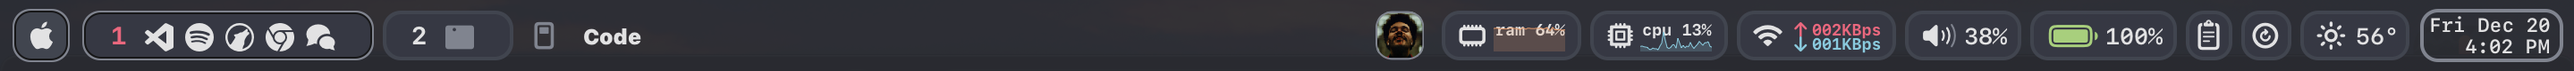
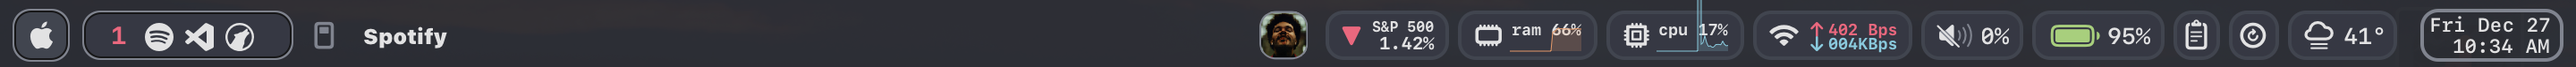
Configuration option to hide widgets

diff --git a/README.md b/README.md
@@ -69,10 +69,10 @@ The default configuration values are defined in full [here](settings.lua). You m
 | `clipboard.max_items` | `integer` | `5` | Number of items to save in the Clipboard Widget. |
 | `font` | `object` | [helpers/default_font.lua](helpers/default_font.lua) | Font configuration. |
 | `group_paddings` | `integer` | `5` | Padding used to separate groups in the bar. |
+| `hide_widgets` | `array` | `[]` | List of widget names that you want hidden from the bar. |
 | `icons` | `string` | `sf-symbols` | Icon library to use; other option is `NerdFont`. |
 | `paddings` | `integer` | `3` | Padding used throughout the bar. |
 | `python_command` | `string` | `python` | Command to use to run Python. The shell environment that SketchyBar uses to execute commands is a bit minimal, so you may need to specify an absolute path to your Python version of choice. |
-| `restart.hide` | `boolean` | `false` | Whether to hide the Restart Widget. |
 | `stocks.default_symbol` | `object` | `{ "symbol": "^GSPC", "name": "S&P 500" }` | The default stock symbol to track and show on the Stock Widget. |
 | `stocks.symbols` | `array` | `[ {"symbol": "^DJI", "name": "Dow Jones"}, {"symbol": "^IXIC", "name": "Nasdaq"}, {"symbol": "^RUT", "name": "Russell 2000"}, {"symbol": "QQQ"} ]` | Stock symbols to track and show on the Stock Widget's popup menu. For each item, you must provide a `symbol` but you do not have to provide a `name`. |
 | `weather.location` | `string` | N/A | Default location used to pass to [wttr.in](https://github.com/chubin/wttr.in). You can use any data that wttr.in accepts, but, in the United States, best results are usually achieved with `City+State` where `State` is the full name of the state and not an abbrevation (e.g., `Chicago+Illinois`). |
